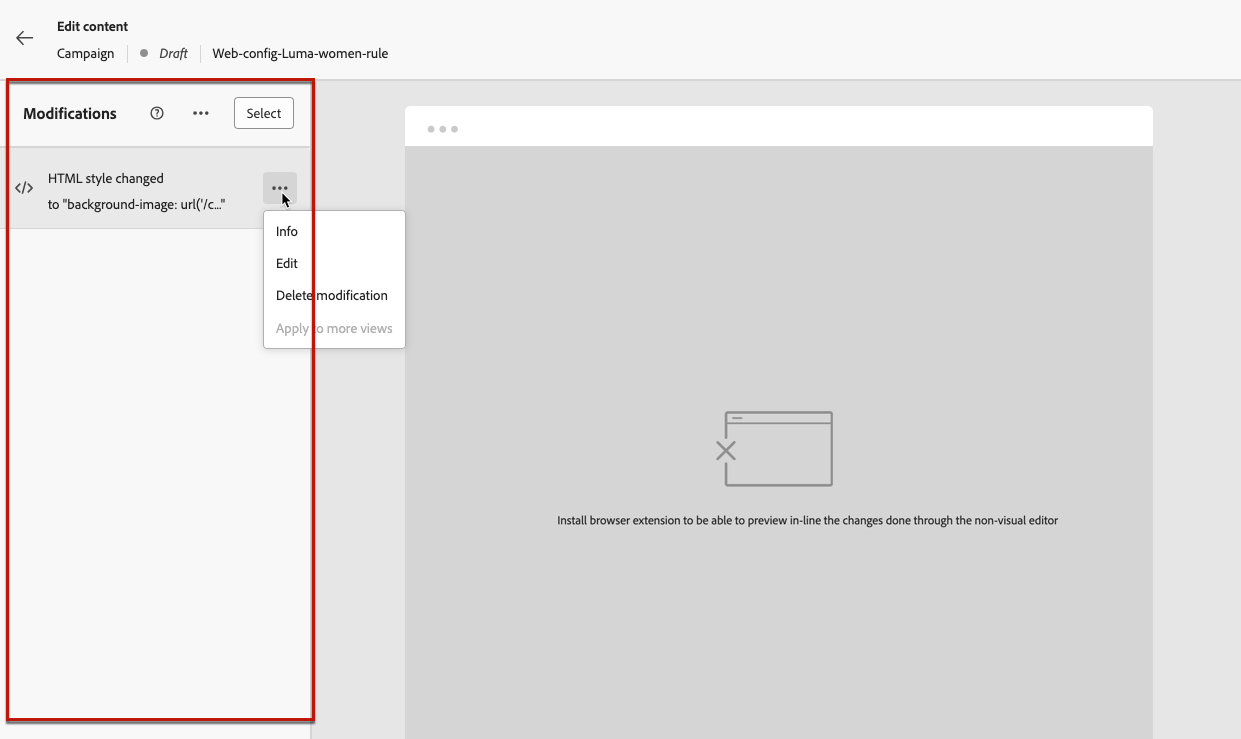
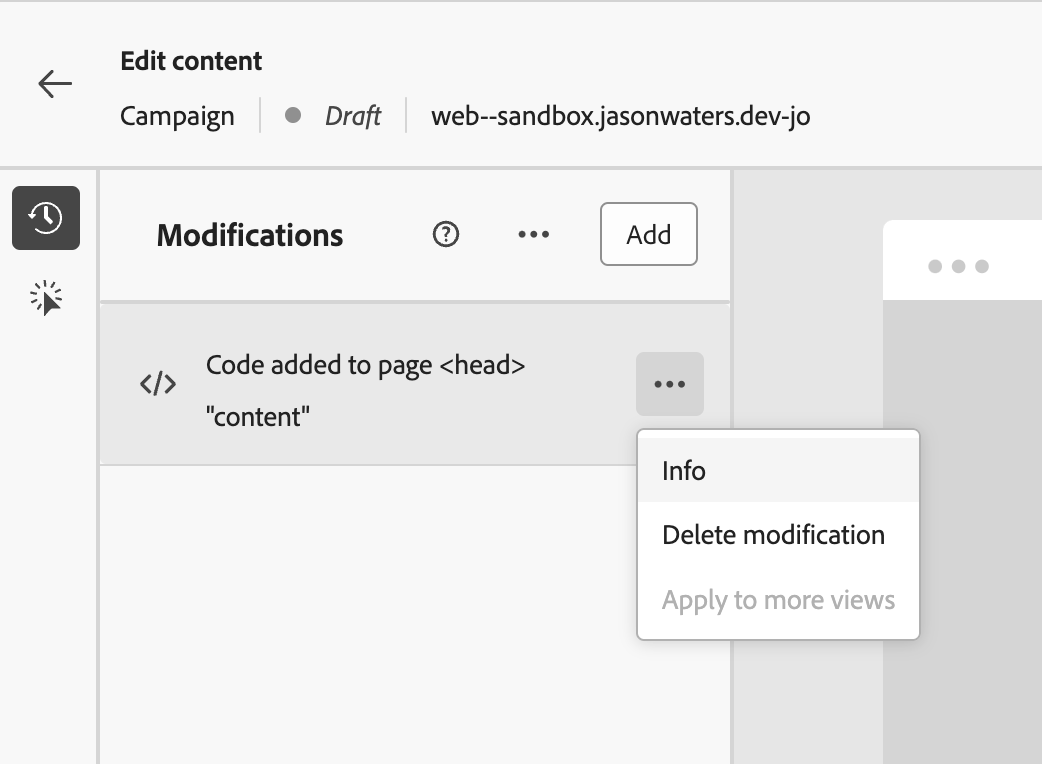
update screens and steps

diff --git a/help/using/web/web-non-visual-editor.md b/help/using/web/web-non-visual-editor.md
@@ -26,12 +26,14 @@ To author your web experiences with the non-visual editor, follow the steps belo
 
     ![](assets/web-non-visual-editor.png)
 
-1. Select the modification type:
+1. In the drop-down list, select the modification type. 
+    
+    Two types are available. They come with different options. See the links below for more details:
 
     * **[!UICONTROL CSS Selector]** - [Learn more](manage-web-modifications.md#css-selector)
-    * **[!UICONTROL Page `<Head>`]** - [Learn more](manage-web-modifications.md#page-head)
+    * **[!UICONTROL Page `<head>`]** - [Learn more](manage-web-modifications.md#page-head)
 
-1. Click the **[!UICONTROL Advanced editing options]** button. The personalization editor opens.
+1. Click the **[!UICONTROL Add personalization]** button. The personalization editor opens.
 
     You can leverage the [!DNL Journey Optimizer] personalization editor with all its personalization and authoring capabilities. [Learn more](../personalization/personalization-build-expressions.md)
 
@@ -41,7 +43,7 @@ To author your web experiences with the non-visual editor, follow the steps belo
 
 1. Your first modification displays on top of the **[!UICONTROL Modifications]** pane.
 
-    Click the **[!UICONTROL More actions]** button next to your modification and select **[!UICONTROL Info]** to display its details. You can also **[!UICONTROL Edit]** or **[!UICONTROL Delete]** the modification.
+    Click the **[!UICONTROL More actions]** button next to your modification and select **[!UICONTROL Info]** to display its details. You can also **[!UICONTROL Delete the modification]** if needed.
 
     ![](assets/web-non-visual-editor-ex-more.png)
 
@@ -49,19 +51,18 @@ To author your web experiences with the non-visual editor, follow the steps belo
     >
     >The **[!UICONTROL Modifications]** pane is the same as when using the [web designer](web-visual-editor.md). All the actions you can perform with it are detailed in [this section](manage-web-modifications.md#use-modifications-pane).
 
-1. Click the **[!UICONTROL More actions]** button on top of the **[!UICONTROL Modifications]** pane to **[!UICONTROL Add a modification]**, and repeat the steps above. [Learn more](manage-web-modifications.md#add-modifications)
-
-    ![](assets/web-non-visual-editor-more.png)
-
-1. Select the arrow on top left of the screen to come back to the journey or campaign edition screen. You can see the current number of changes and add more modifications.
-
-    ![](assets/web-campaign-modifications.png)
-
-    You can also switch to the web designer if desired. All your modifications will be preserved.
+1. Click the **[!UICONTROL Add]** button on top of the **[!UICONTROL Modifications]** pane to add another modification, and repeat the steps above. 
 
 
-1. You can select any element of your website and track the clicks on that element. To enable click tracking, and define the actions to track, click the second icon on the left rail, as shown below:
+1. In addition, you can select any element of your website and track the clicks on that element. To enable click tracking, and define the actions to track, click the second icon on the left rail, as shown below:
     
     ![](assets/web-campaign-click.png)
 
     Use the **Add Component** button to select a new action to track. Learn more about click tracking usage in [this section](monitor-web-experiences.md#use-click-tracking).
+
+
+1. Click the arrow on top left of the screen to browse back to the journey or campaign edition screen. You can see the current number of changes and add more modifications.
+
+    ![](assets/web-campaign-modifications.png)
+
+    You can also switch to the web designer if desired. All your modifications will be preserved.
